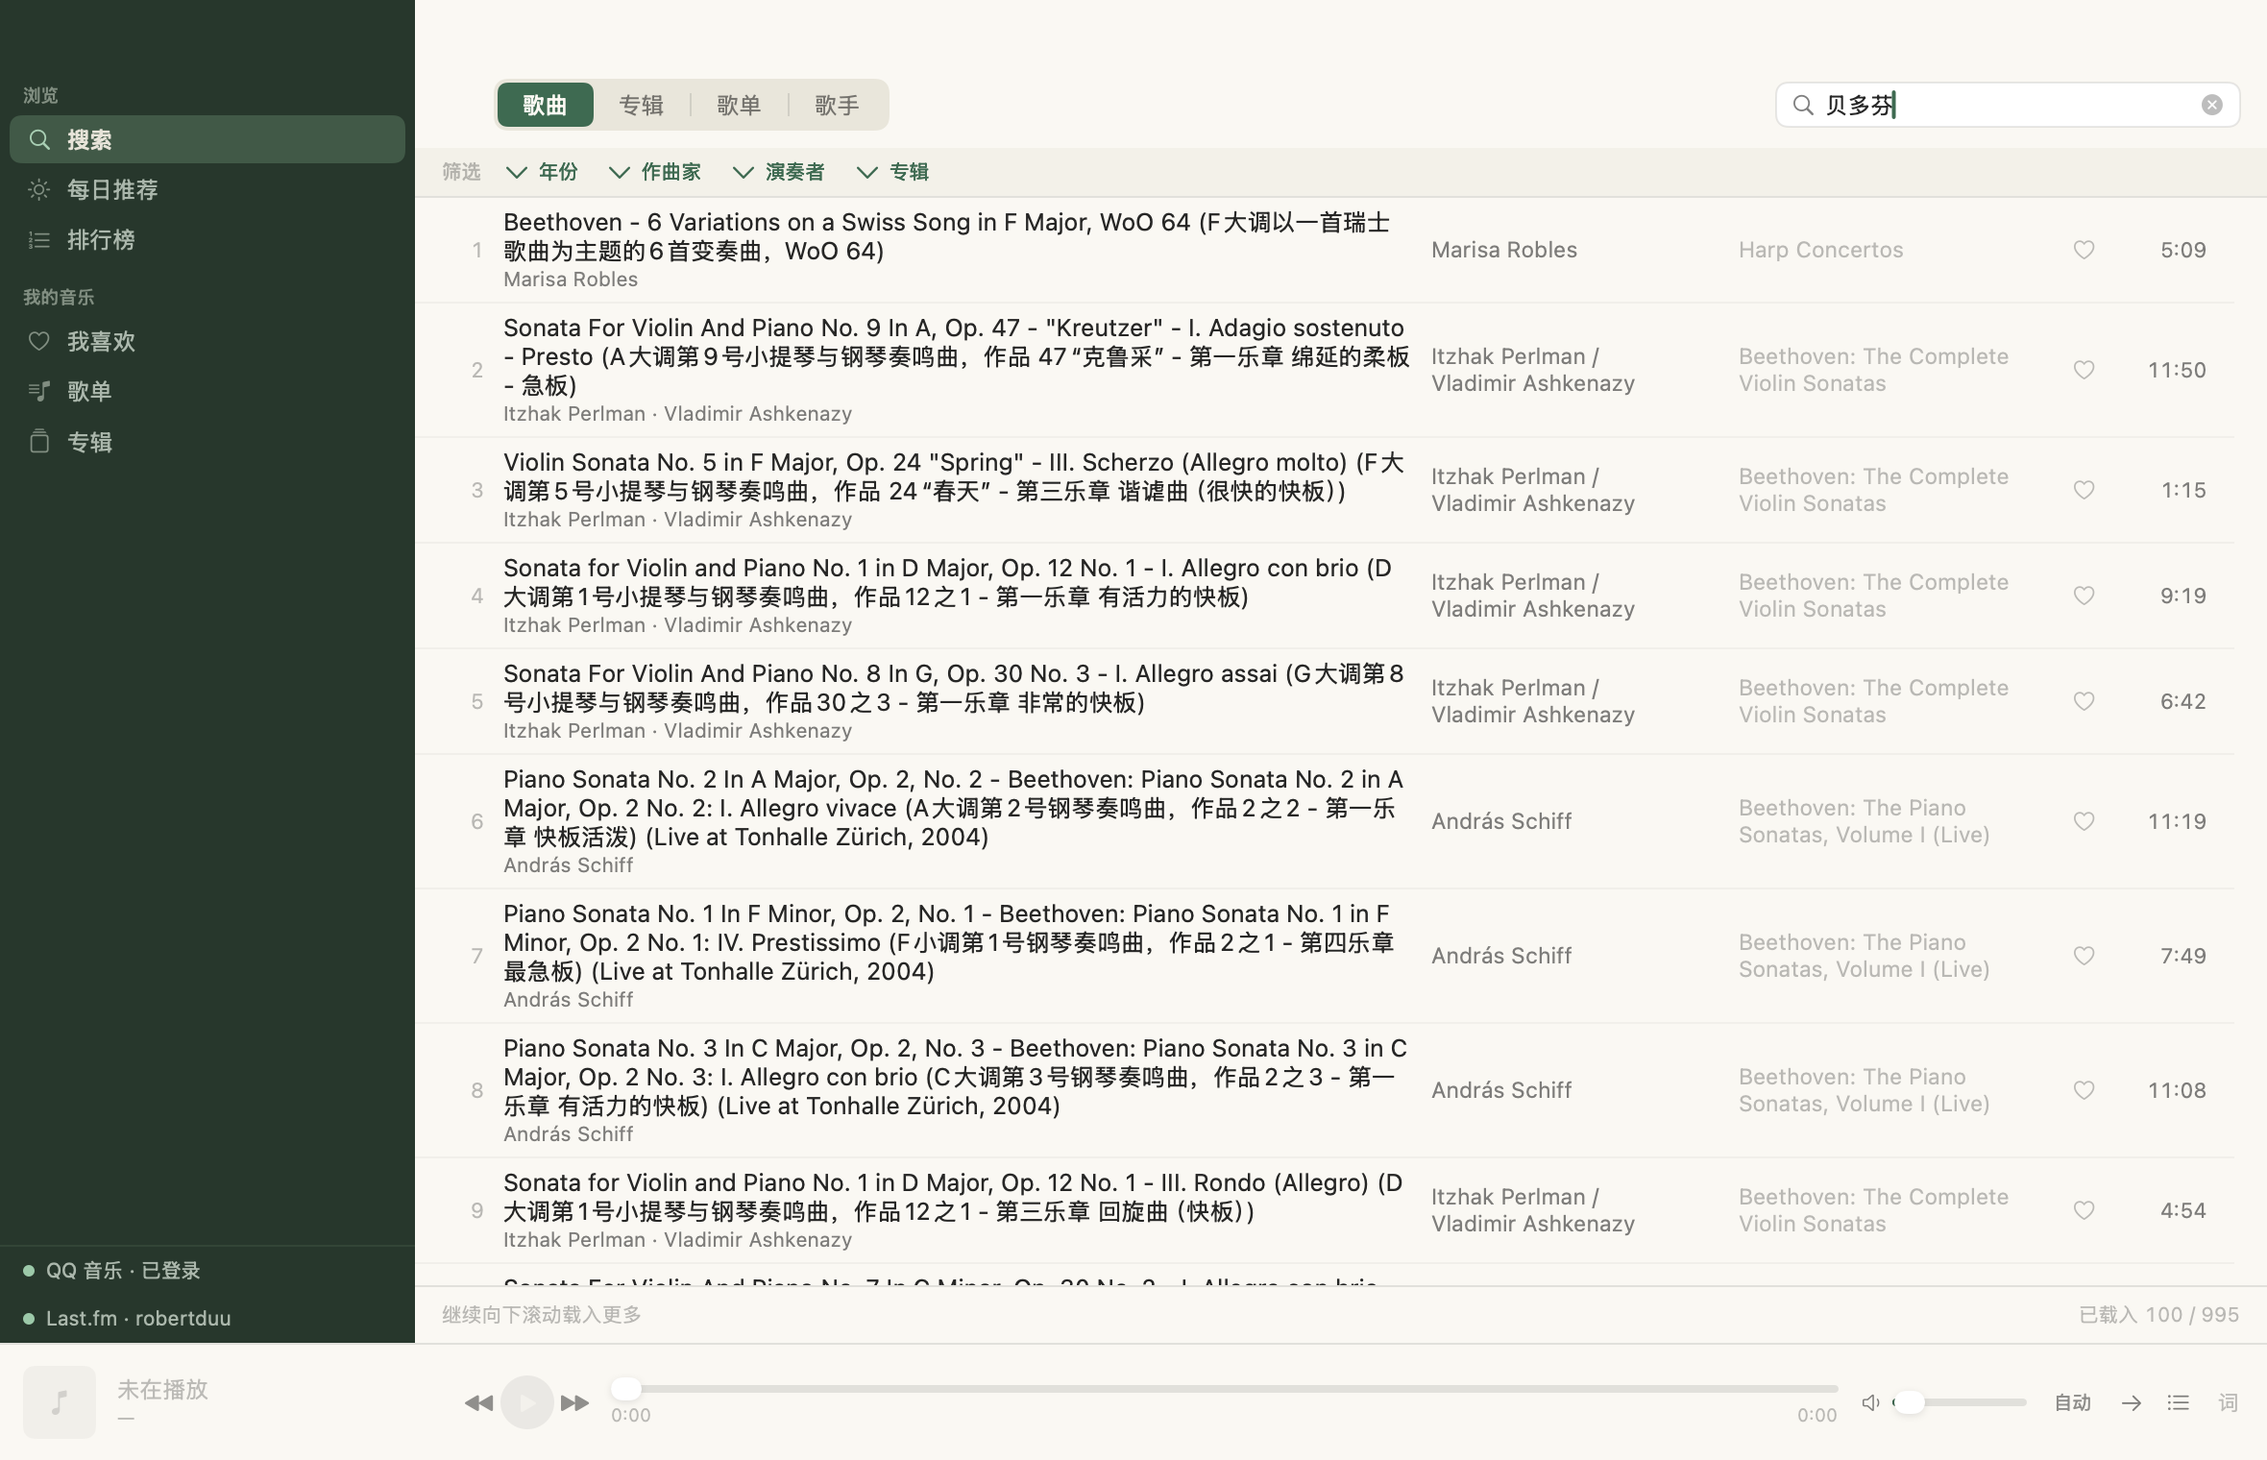
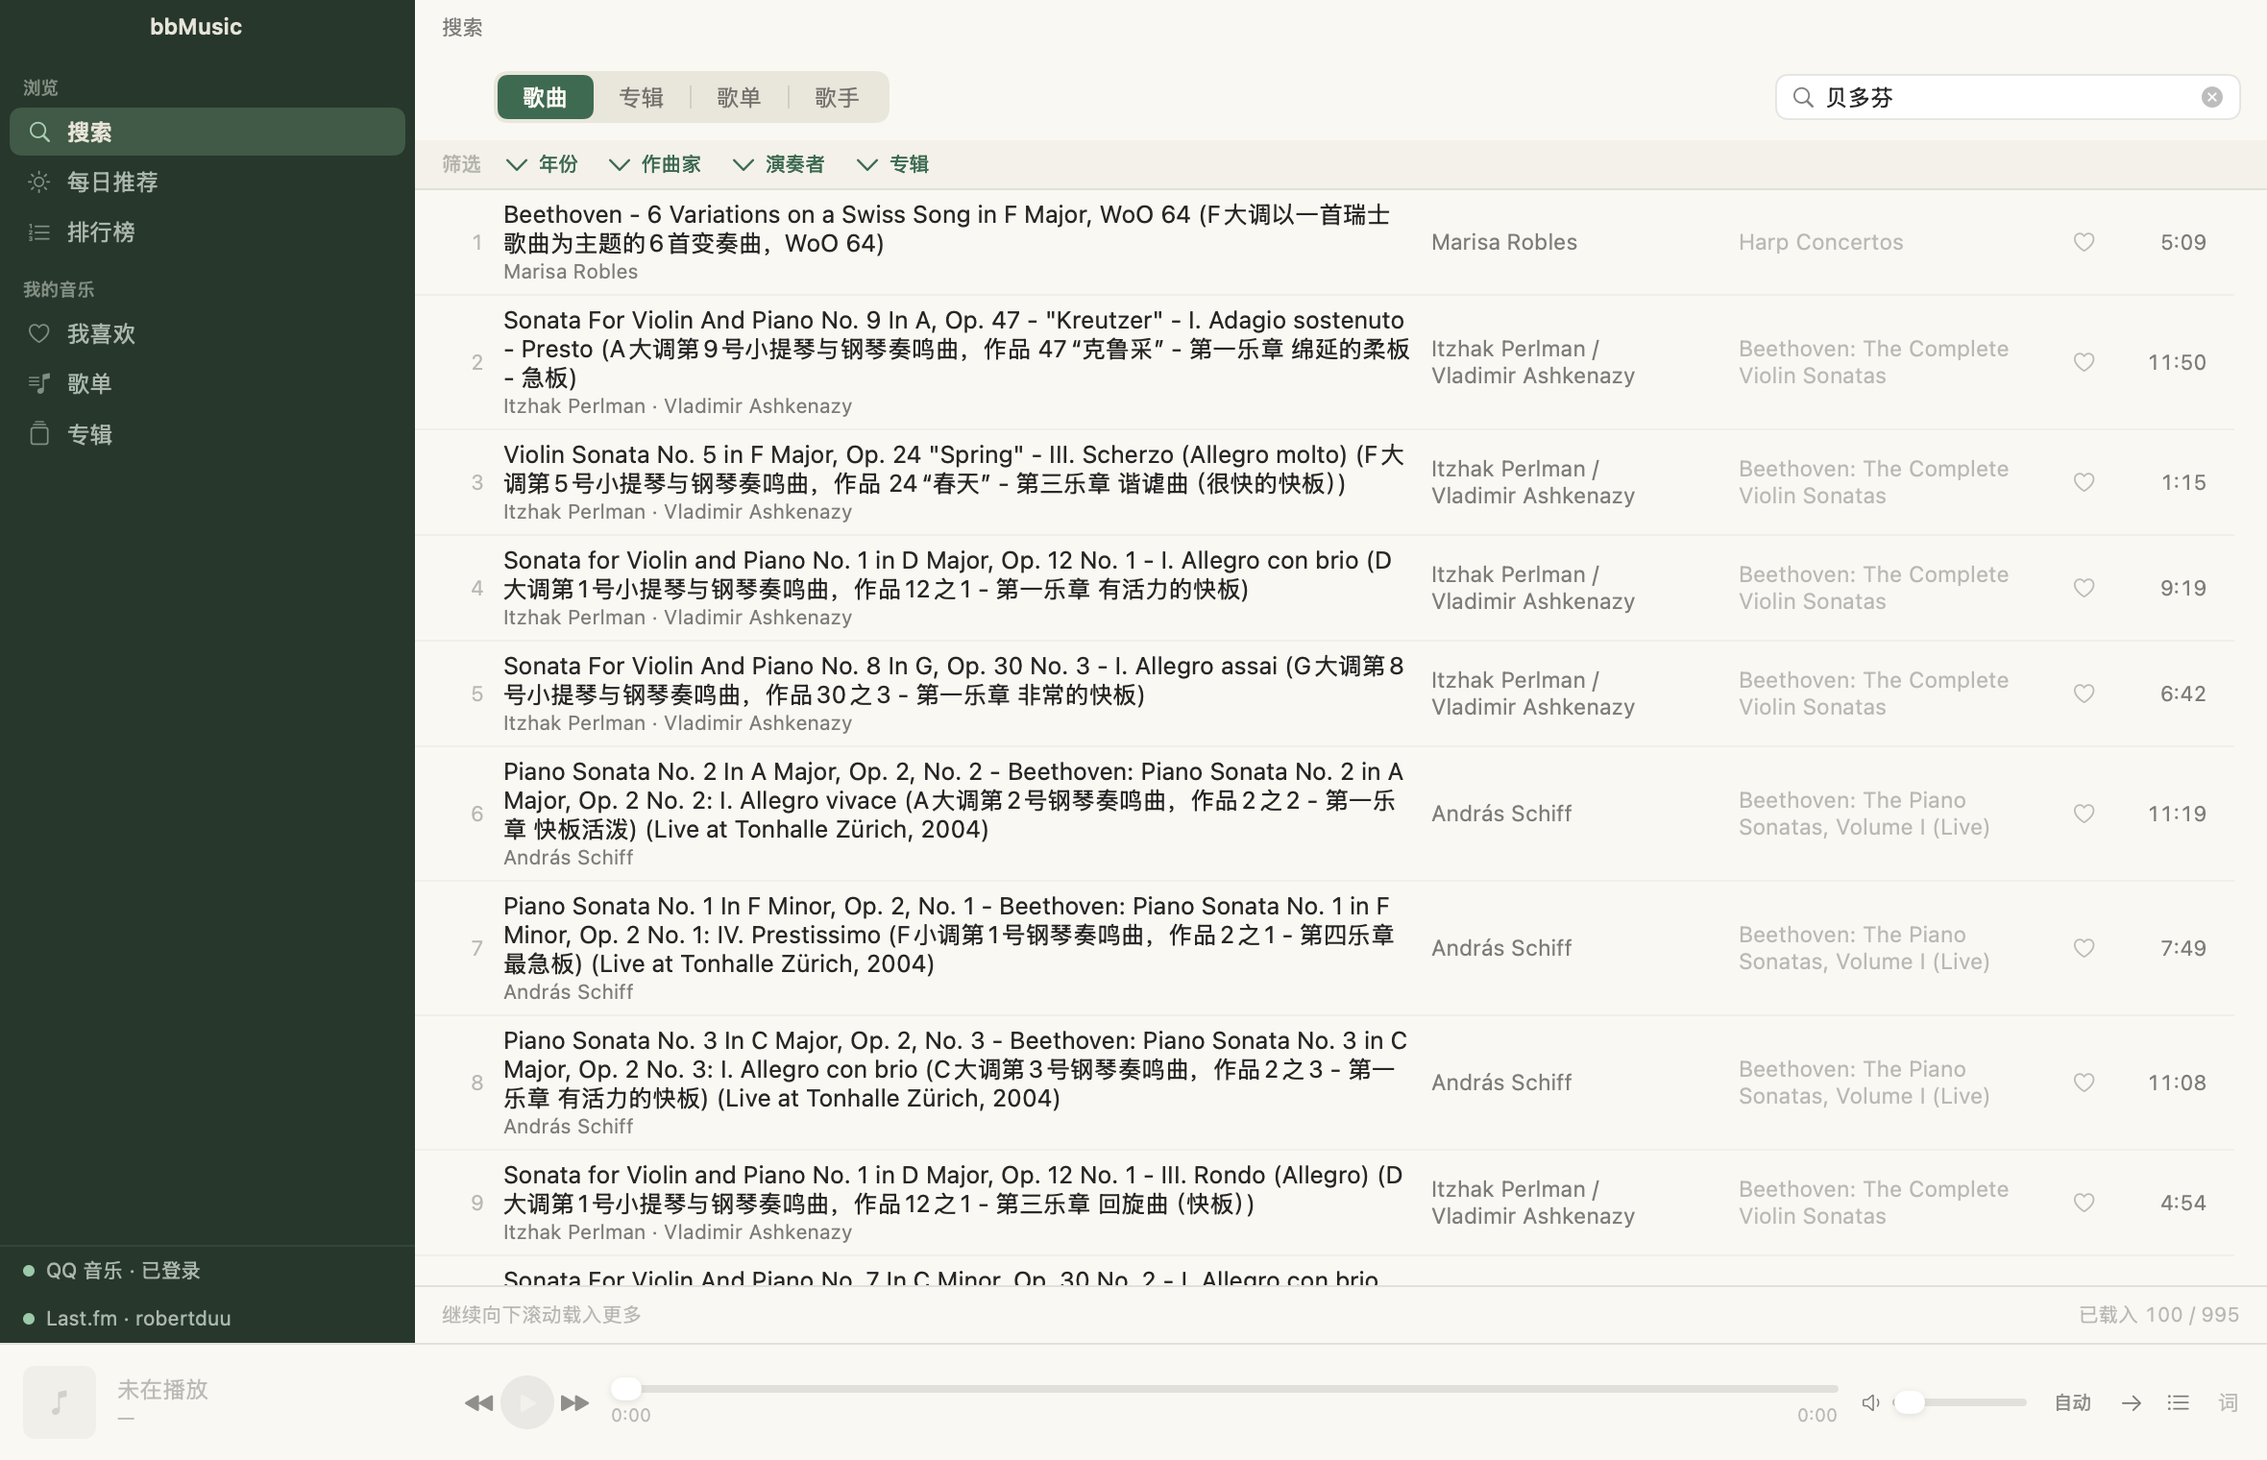
Draw the window's top edge instead of borrowing the system's
The window had a grey system title bar with a centred "bbMusic" in it — the
one piece of the window that did not belong to the palette, and the reason
the app never quite felt like one surface.

`.windowStyle(.hiddenTitleBar)` removes that bar and the content view now
reaches the top edge, so the sidebar's green plate runs all the way up and
the traffic lights float over it, the way Finder's sidebar works. The strip
across the top is drawn in two pieces of equal height: the app's name on the
green plate, and the current location on paper — the page's own name when a
detail page is open, otherwise the section, with a count where one means
something. Both pieces carry `WindowDragArea`, so dragging the strip moves
the window while buttons drawn on it still get their own clicks.

Two other routes were tried and rejected: making the system bar transparent
left AppKit's 28pt strip above the content, so the app's bar sat below it and
the traffic lights floated over an empty green band; installing the bar as a
`NSTitlebarAccessoryViewController` put it in the right place but the window
flickered out of the window list on resize. The chosen route touches no
AppKit view hierarchy — only a public window style and the safe area.

diff --git a/Sources/bbMusic/UI/WindowChrome.swift b/Sources/bbMusic/UI/WindowChrome.swift
@@ -1,0 +1,115 @@
+import AppKit
+import SwiftUI
+
+/// Makes the window's title bar part of the app's own surface.
+///
+/// By default macOS draws a grey strip with a centred title, which is the one piece of the window
+/// that does not belong to the palette. Making the title bar transparent, hiding its title and
+/// letting the content view extend into it means the strip can be drawn from the same forest-green
+/// plate as the sidebar — the window then reads as one object rather than a themed page inside a
+/// system frame.
+///
+/// Configuration happens in `viewDidMoveToWindow`, not in `makeNSView`: the view is created before
+/// SwiftUI has attached it to a window, so there is nothing to configure yet, and a one-shot
+/// `DispatchQueue.main.async` is not guaranteed to land after the attachment either.
+///
+/// The traffic lights are deliberately left where macOS puts them: they are the controls every Mac
+/// user already knows, and re-drawing them would trade muscle memory for a colour match.
+struct WindowChrome: NSViewRepresentable {
+    func makeNSView(context: Context) -> NSView {
+        ChromeView(frame: .zero)
+    }
+
+    func updateNSView(_ nsView: NSView, context: Context) {
+        (nsView as? ChromeView)?.apply()
+    }
+
+    private final class ChromeView: NSView {
+        override func viewDidMoveToWindow() {
+            super.viewDidMoveToWindow()
+            apply()
+            // AppKit builds (and may rebuild) the title bar after the first layout pass, so one
+            // attempt can land too early and leave the system strip in place.
+            DispatchQueue.main.async { [weak self] in self?.apply() }
+            DispatchQueue.main.asyncAfter(deadline: .now() + 0.3) { [weak self] in self?.apply() }
+        }
+
+        func apply() {
+            guard let window else { return }
+            window.titlebarAppearsTransparent = true
+            window.titleVisibility = .hidden
+            // The whole window must not drag: sliders and lists live in it. Only the title bar's own
+            // background is a drag area (see `WindowDragArea`).
+            window.isMovableByWindowBackground = false
+        }
+    }
+}
+
+/// Makes a strip of app-drawn content behave like a title bar: dragging it moves the window.
+///
+/// `mouseDownCanMoveWindow` lets AppKit move the window without the view ever swallowing a click, so
+/// a button drawn on top of this still receives its own presses.
+struct WindowDragArea: NSViewRepresentable {
+    func makeNSView(context: Context) -> NSView { DragView(frame: .zero) }
+    func updateNSView(_ nsView: NSView, context: Context) {}
+
+    private final class DragView: NSView {
+        override var mouseDownCanMoveWindow: Bool { true }
+    }
+}
+
+/// The app's identity, drawn at the top of the sidebar.
+///
+/// The window has no title bar of its own: the sidebar's green plate reaches the top edge and the
+/// traffic lights float over it, the way Finder's sidebar works. This row is the one thing that
+/// replaces the system's title — the app's name and what is currently on screen.
+struct TitleBarView: View {
+    @ObservedObject var model: AppModel
+    @ObservedObject var player: Player
+    @Environment(\.palette) private var palette
+
+    /// Room for the traffic lights, which sit at the window's top-left over this plate.
+    private let trafficLightInset: CGFloat = 78
+
+    var body: some View {
+        HStack(spacing: 6) {
+            Text("bbMusic")
+                .font(.system(size: 11.5, weight: .semibold))
+                .foregroundStyle(palette.sidebar.text)
+            Spacer(minLength: 6)
+            if player.currentTrack != nil {
+                Image(systemName: player.isPlaying ? "speaker.wave.2.fill" : "speaker.fill")
+                    .font(.system(size: 9))
+                    .foregroundStyle(palette.sidebar.tertiaryText)
+            }
+        }
+        .padding(.leading, trafficLightInset)
+        .padding(.trailing, 12)
+        .frame(height: Theme.Metrics.titleBarHeight)
+        // Dragging the plate moves the window, the way a title bar does.
+        .background(WindowDragArea())
+    }
+}
+
+/// The strip that runs across the top of the content area, level with the sidebar's plate.
+///
+/// It carries what the system title bar used to: where the user is. Nothing else lives here — the
+/// pages below already own their own headers, and a second row of controls would be one too many.
+struct ContentTopBar: View {
+    @ObservedObject var model: AppModel
+    @Environment(\.palette) private var palette
+
+    var body: some View {
+        HStack(spacing: 6) {
+            Text(model.locationTitle)
+                .font(.system(size: 11))
+                .foregroundStyle(.secondary)
+                .lineLimit(1)
+            Spacer(minLength: 8)
+        }
+        .padding(.horizontal, 14)
+        .frame(height: Theme.Metrics.titleBarHeight)
+        .background(palette.content)
+        .background(WindowDragArea())
+    }
+}

diff --git a/Sources/bbMusic/UI/RootView.swift b/Sources/bbMusic/UI/RootView.swift
@@ -13,9 +13,15 @@ struct RootView: View {
             HStack(spacing: 0) {
                 SidebarView(model: model, player: player)
                     .frame(width: Theme.Metrics.sidebarWidth)
-                content
-                    .frame(maxWidth: .infinity, maxHeight: .infinity)
-                    .background(palette.content)
+                VStack(spacing: 0) {
+                    // Level with the sidebar's plate, so the two columns start their content on the
+                    // same line and the top strip reads as one bar across the window.
+                    ContentTopBar(model: model)
+                    content
+                        .frame(maxWidth: .infinity, maxHeight: .infinity)
+                }
+                .frame(maxWidth: .infinity, maxHeight: .infinity)
+                .background(palette.content)
             }
             if let success = model.writeSuccess {
                 HStack(spacing: 6) {
@@ -63,6 +69,10 @@ struct RootView: View {
         .background(palette.content)
         .tint(palette.accent)
         .environment(\.palette, palette)
+        .background(WindowChrome())
+        // The window's content starts at the very top edge, so the sidebar's plate reaches it and the
+        // traffic lights float over it instead of sitting in a system strip of their own.
+        .ignoresSafeArea(edges: .top)
     }
 
     @ViewBuilder
@@ -152,6 +162,9 @@ private struct SidebarView: View {
     var body: some View {
         let side = palette.sidebar
         VStack(alignment: .leading, spacing: 0) {
+            // The window has no system title bar: this plate reaches the top edge, and the app's
+            // identity sits in the strip the traffic lights float over.
+            TitleBarView(model: model, player: player)
             // No platform banner: the account state belongs at the bottom, next to the other one.
             // 每日推荐 and 排行榜 were never implemented; their entries only ever led to a
             // placeholder, so they are gone rather than left as dead ends.

diff --git a/Sources/bbMusic/App/AppModel.swift b/Sources/bbMusic/App/AppModel.swift
@@ -477,6 +477,36 @@ final class AppModel: ObservableObject {
     /// How many tracks the open chart claims to have.
     var toplistTotal: Int { routes.current?.toplistTotal ?? 0 }
 
+    /// What the window's title bar says the user is looking at: the page's own name when a detail
+    /// page is open, otherwise the section. The count is included where one is meaningful.
+    var locationTitle: String {
+        switch route {
+        case .toplist(let toplist):
+            return toplistTotal > 0 ? "\(toplist.title) · \(toplistTotal) 首" : toplist.title
+        case .playlist(let playlist):
+            return "\(playlist.name) · \(libraryTracks.count) 首"
+        case .searchPlaylist(let playlist):
+            return "\(playlist.name) · \(libraryTracks.count) 首"
+        case .album(let album):
+            return album.name
+        case .artist(let artist):
+            return artist.name
+        case nil:
+            switch pane {
+            case .lyrics:
+                return player.currentTrack.map { "歌词 · \($0.title)" } ?? "歌词"
+            case .trackDetail:
+                return player.currentTrack.map { "歌曲详情 · \($0.title)" } ?? "歌曲详情"
+            case .list:
+                break
+            }
+            if showQueue { return "播放队列 · \(player.queue.count) 首" }
+            if section == .daily { return "每日推荐 · \(libraryTracks.count) 首" }
+            if section == .liked { return "我喜欢 · \(libraryTracks.count) 首" }
+            return section.title
+        }
+    }
+
     /// Whether a chart is open. A chart is the only page that reports load progress.
     var isChartPage: Bool {
         if case .toplist? = route { return true }

diff --git a/Sources/bbMusic/UI/Theme.swift b/Sources/bbMusic/UI/Theme.swift
@@ -57,6 +57,10 @@ enum Theme {
     enum Metrics {
         /// Widened by 6pt: the green plate needs a little more air around its labels.
         static let sidebarWidth: CGFloat = 216
+        /// The app draws its own title bar; this is how tall it is. A standard macOS title bar is
+        /// 28pt, and the traffic lights are centred in it — matching that height is what makes the
+        /// green plate reach the top edge of the window instead of leaving a grey strip above it.
+        static let titleBarHeight: CGFloat = 28
         static let playerBarHeight: CGFloat = 60
         /// Artwork cards. 10pt reads as a record sleeve rather than a button.
         static let cardCornerRadius: CGFloat = 10

diff --git a/Sources/bbMusic/App/BbMusicApp.swift b/Sources/bbMusic/App/BbMusicApp.swift
@@ -38,6 +38,11 @@ struct BbMusicApp: App {
                 }
             }
         }
+        // A hidden title bar: the window has no chrome of its own, the content view fills the whole
+        // frame, and the traffic lights float over whatever the app draws there. `RootView` draws the
+        // bar itself, in the sidebar's green, so the window reads as one surface instead of a themed
+        // page inside a grey system frame.
+        .windowStyle(.hiddenTitleBar)
         .defaultSize(width: 1000, height: 640)
 
         Settings {

diff --git a/architecture-design.md b/architecture-design.md
@@ -198,6 +198,10 @@ QQ 音乐其余位置不提供结构化的作曲家/作品号/演奏者字段。
 
 **返回是逐层的。** 歌手页 → 专辑页 → 返回 → 歌手页 → 返回 → 来的那张列表。栈空时 `goBack()` 什么也不做，而不是「退到某个默认页」。
 
+**窗口没有系统标题栏。** `.windowStyle(.hiddenTitleBar)` 去掉系统的灰色标题条，内容区 `ignoresSafeArea(edges: .top)` 顶到窗口最上沿，于是侧边栏的绿板一直延伸到窗口顶端，红绿灯悬浮在它上面（和访达的侧边栏同样的做法）。顶栏由两段拼成、高度一致：左段是绿板上的 app 名，右段是纸白上的当前位置（`AppModel.locationTitle`：详情页用自己的名字，否则用栏目名，带上有意义的数量）。两段都铺了 `WindowDragArea`（`mouseDownCanMoveWindow`），所以拖顶栏能移动窗口，而画在上面的按钮仍能收到自己的点击。
+
+系统标题栏试过两条路都不可靠：直接改 `titlebarAppearsTransparent` 后，AppKit 仍会在内容之上保留 28pt 的条带，自绘顶栏被挤到它下面，红绿灯悬在一片空的绿带上；用 `NSTitlebarAccessoryViewController` 把顶栏塞进真标题栏，则在窗口尺寸变化时反复重排、窗口会短暂消失。现在这条路不碰 AppKit 的视图层级，只依赖公开的窗口样式与安全区。
+
 **内容区有三种互斥的形态**：列表、歌词、歌曲详情。它们占同一个位置，进其中一个就是离开另外两个——不存在浮层叠浮层。播放条左侧整块（封面/标题/歌手）是详情页的开关，再点一次收起；「词」按钮与 ⌘L 同理。
 
 **队列是覆盖在页面之上的一层，不是第四种页面。** 从列表打开时它显示「返回」；从歌词或歌曲详情打开时**没有返回按钮**——那两层背后不是列表，返回无处可去，再点一次队列按钮即回到原处（`queueReturnPane` 记住来处）。

diff --git a/README.md b/README.md
@@ -33,6 +33,12 @@ macOS 上的 QQ 音乐播放器：原生 SwiftUI，用 Last.fm 记录听歌。
 | **歌单** | 自建与收藏的歌单，格子展示；收藏的歌单显示「收藏」标记 |
 | **专辑** | 收藏的专辑，格子展示；卡片显示年份与艺术家 |
 
+### 窗口
+
+| | |
+|---|---|
+| **自绘顶栏** | 不用系统标题栏：侧边栏绿板延伸到窗口顶端，红绿灯悬浮其上；顶栏右段显示当前位置（栏目或详情页名，带数量）。拖顶栏即可移动窗口 |
+
 ### 播放
 
 | | |
